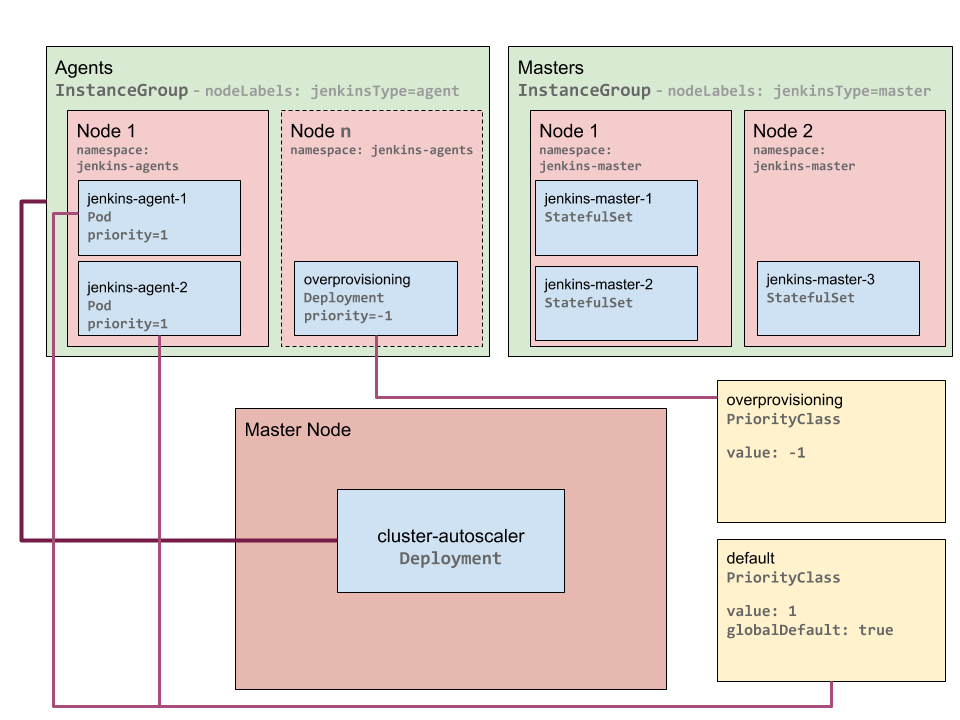
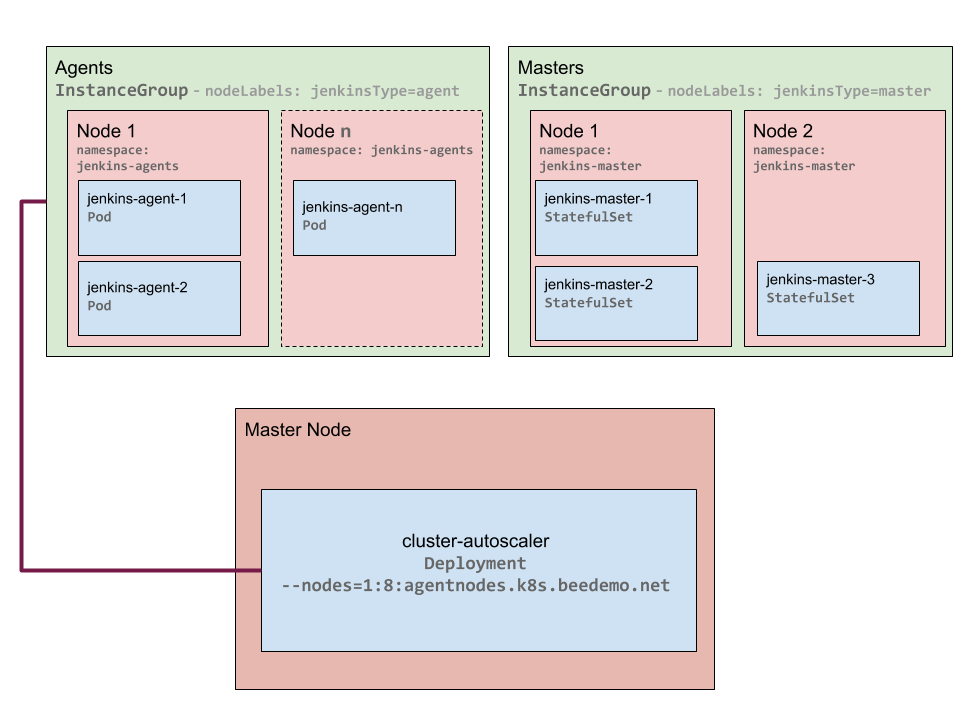
updates for autoscaling-jenkins-agents-with-kubernetes

diff --git a/content/posts/cicd-with-kubernetes/autoscaling-jenkins-agents-with-kubernetes.md b/content/posts/cicd-with-kubernetes/autoscaling-jenkins-agents-with-kubernetes.md
@@ -6,12 +6,18 @@ part: 2
 date: 2018-05-27T07:09:15-04:00
 draft: true
 ---
-In [Part 1]({{< ref "segregating-jenkins-agents-on-kubernetes.md" >}}) of the series [CI/CD on Kubernetes](/series/cicd-on-kubernetes/) we used the `PodNodeSelector` to segregate the Jenkins workload - agents from masters - and explored a few Kubernetes admission controllers. In Part 2 of this CI/CD on Kubernetes series we will utilize the segregated `jenkins-agents` `node pool` as part of an autoscaling solution for the Jenkins agent workload, without impacting the availability or performance of the Jenkins masters `node pool`. But before diving into the autoscaling solution for Jenkins agents we will take a look at `ResourceQuotas` and `LimitRanges` - two more admission controllers.
+In [Part 1]({{< ref "segregating-jenkins-agents-on-kubernetes.md" >}}) of the series [CI/CD on Kubernetes](/series/cicd-on-kubernetes/) we used the `PodNodeSelector` to segregate the Jenkins workloads - agents from masters - and explored a few Kubernetes admission controllers. In Part 2 of this CI/CD on Kubernetes series we will utilize the segregated `jenkins-agents` `node pool` as part of an autoscaling solution for the Jenkins agent workload, without impacting the availability or performance of the Jenkins masters `node pool` or any other segregated workload on the cluster. But before diving into the autoscaling solution for Jenkins agents we will take a look at `ResourceQuotas` and `LimitRanges` to reduce the risk of a few rogue Jenkins jobs effecting the stability and availability of agent capacity. Because even though autoscaling compute resources for Jenkins agents is a terrific solution for flexibile and dynamic CI/CD capacity, there will always be a limits to how much up-scaling is possible - whether it is limits on cost or actual physical limitations of AWS itself.
 
 > **NOTE:** The configuration examples used in this series are from a Kubernetes cluster deployed in AWS using [Kubernetes Operations or kops](https://github.com/kubernetes/kops) version [1.9](https://github.com/kubernetes/kops/blob/master/docs/releases/1.9-NOTES.md) with [Kubernetes RBAC](https://kubernetes.io/docs/reference/access-authn-authz/rbac/) enabled (which is the default authorization mode for kops 1.9). Therefore, certains steps and aspects of the configurations presented may be different for other Kuberenetes platforms.
 
 ## Resource Quotas and Autoscaling Don't Mix
-Efficient and effective management of compute resources is an important part of successful CI/CD and it is no different with a Kubernetes cluster. The Kubernetes [`ResourceQuota`](https://kubernetes.io/docs/concepts/policy/resource-quotas/) object allows you to limit cluster resource utilization by `namespace` - ensuring that each workload or team in an organization has what they need without negatively impacting others. `ResourceQuotas`, for example, allow you to specify the total compute resources, such as cpu and memory (among many other resources), that may be used by a `namespace` - think of them as over-utilization guardrails for your CI/CD resources. However, it is a static configuration. So if you were to increase the number of `nodes` in a cluster you would have to manually update the `ResourceQuota` to make additional resources available for any `namespace` with a `ResourceQuota` assigned. However, the topic of this post is how to dynamically up-scale and down-scale cluster `nodes` for Jenkins agents - but it not currently possible to dynamically modify `ResourceQuotas`. There doesn't seem much point in having dynamic autoscaling while having a manual process to modify `ResourceQuotas` in order to actually utilize the autoscaled resources - so  `ResourceQuotas` and autoscaling by `namespace` don't mix. But you still may want to provide some guardrails within a particular `namespace` so that one individual Jenkins job does not adversely effect other jobs relying on the same pool of Jenkins agents. There must be some reasonable limit for each individual Jenkins agent `pod`. Also, for a Kubernetes cluster configured to autoscale `nodes` we still want to ensure that no single `pod` is configured use more resources than are available on a single node as that `pod` will fail to launch. So we will define a `LimitRange` for the jenkins-agent `namespace` to assure realistic defaults and limits for each `container` in a `pod` and maximum cpu and memory for a `pod` overall. This will provide for more consistent and reasonable resource utilization and cluster autoscaling.
+#### Resource Quotas
+Efficient and effective management of compute resources is an important part of successful CI/CD and it is no different with CI/CD on a Kubernetes cluster. The Kubernetes [`ResourceQuota`](https://kubernetes.io/docs/concepts/policy/resource-quotas/) object allows you to limit cluster resource utilization by `namespace` - ensuring that each workload or team that has a dedicated `namespace` has adequate compute resources without denying resources to other workloads/teams. `ResourceQuotas`, for example, allow you to specify the total compute resources, such as cpu and memory (among many other resources), that may be used by a `namespace` - think of them as over-utilization guardrails for your CI/CD resources. However, it is a static configuration. So if you were to increase the number of `nodes` in a cluster you would have to manually update the `ResourceQuota` to make additional resources available for any `namespace` with a `ResourceQuota` assigned. However, the topic of this post is how to dynamically up-scale and down-scale cluster `nodes` for Jenkins agents - but it is not currently possible to dynamically modify `ResourceQuotas`. So, there doesn't seem much point in having cluster autoscaling while having a manual process to modify `ResourceQuotas` in order to actually utilize the autoscaled resources - so  `ResourceQuotas` and autoscaling by `namespace` don't mix. 
+
+#### Limit Ranges
+Even though `ResourceQuotas` don't make much sense with `node pool` autoscaling, you still will want to provide some guardrails within a particular `namespace` so that one individual Jenkins job does not adversely effect other jobs relying on the same pool of Jenkins agent capacity. First and foremost, we want to ensure that no single `pod` is configured to use more resources than are available on a single `node` as that `pod` will fail to launch - resulting in the Jenkins jobs requesting those agents waiting indefinitely. Additionally, for a Kubernetes cluster configured to autoscale `nodes` we still will want to have reasonable limits for each individual Jenkins agent `pod` as we will certainly have a limit for how many `nodes` can be up-scaled - and we wouldn't want some rogue Jenkins jobs using all of the compute resources of the Jenkins agent `node pool`.  So we will define a `LimitRange` for the jenkins-agent `namespace` to assure realistic defaults and limits for each `container` in a `pod` and maximum [cpu](https://kubernetes.io/docs/tasks/administer-cluster/manage-resources/cpu-default-namespace/) and [memory](https://kubernetes.io/docs/tasks/administer-cluster/manage-resources/memory-default-namespace/) limits for each `pod`. This will provide for more consistent and reasonable resource utilization and more predictable cluster autoscaling.
+
+> **NOTE:** Using `LimitRange` requires that the `LimitRanger` admission controller be enabled. The `LimitRanger` admission controller has been a [recommended admission controller](https://kubernetes.io/docs/reference/access-authn-authz/admission-controllers/#is-there-a-recommended-set-of-admission-controllers-to-use) since Kubernetes 1.0 and will most likely be enabled by default for most Kubernetes distributions. It is enabled by default for kops 1.9.
 
 {{% codecaption caption="jenkinsAgentLimitRange.yml" %}}
 ```yaml
@@ -39,26 +45,30 @@ spec:
 ```
 {{% /codecaption %}}
 
-> **NOTE:** Even though we won't be using `ResourceQuotas` for this example - it is interesting that `ResourceQuotas` and `LimitRanges` work hand-in-hand. If a `ResourceQuota` is sprecified for cpu and/or memory on a `namespace` then `pod` `containers` must specify limits or requests for cpu/memory or the `pod` may not be created. So it is recommended that a `LimitRange` is created for the same `namespace` so default values are automatically applied to any `containers` that don't specify cpu/memory limits or requests.
+<br/>
+
+> **NOTE:** Even though we won't be using `ResourceQuotas` for this example - it is interesting that `ResourceQuotas` and `LimitRanges` work hand-in-hand. If a `ResourceQuota` is specified for cpu and/or memory on a `namespace` then `pod` `containers` must specify limits or requests for cpu/memory or the `pod` may not be created. So it is recommended that a `LimitRange` is created for any `namespace` that has a `ResourceQuota` applied - so default values are automatically applied to any `containers` that don't specify cpu/memory limits or requests and will still be successfully scheduled.
 
 ## Why Autoscale
-The [Jenkins Kubernetes Plugin](https://github.com/jenkinsci/kubernetes-plugin) provides the capability to provision dynamic and ephemeral Jenkins agents as `Pods` managed by Kubernetes. And while very useful, that is not the same thing as autoscaling the actual physical resources or `nodes` these `Pods` are running. Without true autoscaling there will be a static amount of resources available for your Jenkins agents workload (and any other applications utilizing those same Kubernetes nodes); and when and if all of those resources are consumed - any additional Jenkins workload will be queued. Furthermore, if you have consistent (or random) spikes in your CI/CD workload then autoscaling your agent capacity could be a solution for shorter queues - especially in a cloud environment like AWS, Azure, GCP, etc.
+The [Jenkins Kubernetes Plugin](https://github.com/jenkinsci/kubernetes-plugin) provides the capability to provision dynamic and ephemeral Jenkins agents as `Pods` managed by Kubernetes. And while very useful, that is not the same thing as autoscaling the actual physical resources or `nodes` where these `Pods` are running. Without true autoscaling, there will be a static amount of resources available for your Jenkins agents workload (and any other applications utilizing those same Kubernetes nodes); and when and if all of those resources are consumed - any additional Jenkins workload will be queued. Furthermore, if you have consistent (or random) spikes in your CI/CD workload then autoscaling your agent capacity could be a solution for much shorter Jenkins queues - especially in a cloud environment like AWS, Azure, GCP, etc.
 
-True autoscaling will allow your CI/CD to move as fast as it needs to - limiting slow-downs related to lack of infrastructure. But of course you will still want to set maximum limits to avoid large costs due to a mis-configured jobs or other user error - even with a `LimitRange` for the autoscaled `namespace`. And remember, down-scaling is just as important as up-scaling - it is the down-scaling that will help manage costs by removing under utilized `nodes`, while the up-scaling accelerates your CI/CD. Autoscaling will help reduce costs and maximize availability for your Jenkins agent workload.
+True autoscaling will allow your CI/CD to move as fast as it needs to - greatly reducing slow-downs related to lack of infrastructure. But of course you will still want to set maximum limits to avoid large costs due to a mis-configured jobs or other user error - even with a `LimitRange` for the autoscaled `namespace`. And remember, down-scaling is just as important as up-scaling - it is the down-scaling that will help manage costs by removing under utilized `nodes`, while the up-scaling accelerates your CI/CD. Autoscaling will help reduce costs and maximize availability for your Jenkins agent workload.
 ## Kubernetes Autoscaler Project
-The [Kubernetes Autoscaler](https://github.com/kubernetes/autoscaler) project provides a [Cluster Autoscaler](https://github.com/kubernetes/autoscaler/tree/master/cluster-autoscaler) component with support for AWS, GCP and Azure. A GA version was released alongside the release of Kubernetes 1.8.  The Cluster Autoscaler runs as a Kubernetes `Deployment` on your cluster and monitors the resource utilization of `node pools` or in kops terms [`InstanceGroups`](https://github.com/kubernetes/kops/blob/master/docs/instance_groups.md) - mapping to AutoScalingGroups in AWS. The Cluster Autoscaler will up-scale and down-scales `nodes` in a `node pool`/`instancegroup` based on `pod` consumption. Configuring and enabling the Kubernetes Cluster Autoscaler is very simple and straightforward. 
+The [Kubernetes Autoscaler](https://github.com/kubernetes/autoscaler) project provides a [Cluster Autoscaler](https://github.com/kubernetes/autoscaler/tree/master/cluster-autoscaler) component with support for AWS, GCP and Azure. A GA version was released alongside the release of Kubernetes 1.8.  The Cluster Autoscaler runs as a Kubernetes `Deployment` on your cluster and monitors the resource utilization of `node pools` or in kops terms [`InstanceGroups`](https://github.com/kubernetes/kops/blob/master/docs/instance_groups.md) - which for AWS map to `AutoScalingGroups`. The Cluster Autoscaler will up-scale and down-scales `nodes` in a `node pool`/`instancegroup` based on `pod` consumption. Configuring and enabling the Kubernetes Cluster Autoscaler is very simple and straightforward. 
 
 > **NOTE:** There are two other prominent types of autoscaling for Kubernetes: 1) The [Horizontal Pod Autoscaler](https://kubernetes.io/docs/tasks/run-application/horizontal-pod-autoscale/) and 2) The [Vertical Pod Autoscaler](https://github.com/kubernetes/autoscaler/tree/master/vertical-pod-autoscaler). Put simply, the Horizontal Pod Autoscaler scales the number of `Pods` for a given application and is not a good fit for stateful, single `pod` applications like Jenkins masters or the ephemeral workload of Kubernetes based Jenkins agents. The Vertical Pod Autoscaler is of potential interest for both Jenkins masters and agents - as it will automatically adjust resource requirements for new and existing pods. One area of interest for the Vertical Pod Autoscaler is the capability to reduce the risk of containers running out of memory. This could be an excellent feature for Jenkins masters, allowing you to be more frugal with initial resource quotas with less risk. Definitely something worth taking a look at in a future post.
 
 ## Namespace Specific Autoscaling
-We want to run a number of different workloads on our Kubernetes cluster - for example, in addition to providing dynamic Jenkins agents, we would also like to run Jenkins masters on the cluster and even deploy production applications to the same cluster. Of course you could set up separate clusters for each of these workloads, but the Kubernetes `Namespace` capability enables us to have true multi-tenant workload in the same cluster. For some workloads autoscaling is quite useful, whereas for other types of workloads autoscaling may not make sense, and may even be detrimental. Specifically, cluster autoscaling is detrimental for Jenkins masters. The Cluster Autoscaler will down-scale in addition to up-scaling - and when it scales down it will move/reschedule existing `pods` to other `nodes` in the pool so that `node` can be removed. This sudden unexpected stoppages is not a behavior we want for the Jenkins masters' workloads. But cluster autoscaling makes a lot of sense for Jenkins agents. So we will use the Jenkins agent `namespace` tied to a Jenkins agent `node pool` created in [part one of this series]({{< ref "segregating-jenkins-agents-on-kubernetes.md#putting-it-all-together" >}}) to ensure that only `nodes` used by Jenkins agents - and not other workloads - are autoscaled.
+We want to run a number of different workloads on our Kubernetes cluster - for example, in addition to providing dynamic Jenkins agents, we would also like to run Jenkins masters on the cluster and even deploy production applications to the same cluster. Of course you could set up separate clusters for each of these workloads, but the Kubernetes `Namespace` capability provides manageable multi-tenant workloads, all within one Kubernetes cluster. For some workloads autoscaling is quite useful, whereas for other types of workloads autoscaling may not make sense, and may even be detrimental. Specifically, cluster autoscaling is not a good fit for Jenkins masters. The Cluster Autoscaler will down-scale in addition to up-scaling - and when it scales down it will move/reschedule existing `pods` to other `nodes` in the pool so that `node` can be removed. This sudden unexpected stoppages is not a behavior we want for the Jenkins masters' workloads. But cluster autoscaling makes a lot of sense for Jenkins agents. So we will use the Jenkins agent `namespace` tied to a Jenkins agent `node pool` created in [part one of this series]({{< ref "segregating-jenkins-agents-on-kubernetes.md#putting-it-all-together" >}}) to ensure that only `nodes` used by Jenkins agents - and not other workloads - are autoscaled.
 
 {{< figure src="k8s-cluster-autoscaling.png" title="Kubernetes Autoscaling Architecture Overview Diagram" >}}
 ### PodNodeSelector
 The [PodNodeSelector](https://kubernetes.io/docs/admin/admission-controllers/#podnodeselector) admission controller that we [setup in part one of this series]({{< ref "segregating-jenkins-agents-on-kubernetes.md#configure-kops-admission-controllers" >}}) allows for targeted cluster autoscaling. To revisit, the `PodNodeSelector` allows you to place an annotation on a Kubernetes `namespace` that will automatically be assigned as a [`nodeSelctor`](https://kubernetes.io/docs/concepts/configuration/assign-pod-node/#nodeselector) label/value on all `pods` that are created in that `namespace`. We will configure the Cluster Autoscaler to specifically target the AWS AutoScalingGroup/`node pool`/`InstanceGroup` associated to the Jenkins agent `namespace` [created in part one of this series]({{< ref "segregating-jenkins-agents-on-kubernetes.md##jenkins-agent-instance-group" >}}) using the `PodNodeSelector`, so that only `nodes` used for Jenkins agent `pods` will be autoscaled. 
 
+
+
 ### Cluster Autoscaler Deployment
-The following is an exerpt from the [cluster autoscaler example for running on a master node](https://github.com/kubernetes/autoscaler/blob/5ea4ddac977304302faa188f32b5965267374fc3/cluster-autoscaler/cloudprovider/aws/examples/cluster-autoscaler-run-on-master.yaml) with the only modification being for the `nodes` argument for the `cluster-autoscaler` `app`:
+The following is an excerpt from the [cluster autoscaler example for running on a master node](https://github.com/kubernetes/autoscaler/blob/5ea4ddac977304302faa188f32b5965267374fc3/cluster-autoscaler/cloudprovider/aws/examples/cluster-autoscaler-run-on-master.yaml) with the only modification being for the `nodes` argument for the `cluster-autoscaler` `app`:
 {{% codecaption caption="clusterAutoscalerDeployment.yml" %}}
 ```yaml
 apiVersion: extensions/v1beta1
@@ -69,7 +79,19 @@ metadata:
   labels:
     k8s-addon: cluster-autoscaler.addons.k8s.io
     app: cluster-autoscaler
-...
+  spec:
+  tolerations:
+  - effect: NoSchedule
+    key: node-role.kubernetes.io/master
+  nodeSelector:
+    kubernetes.io/role: master
+  serviceAccountName: cluster-autoscaler
+  containers:
+    - name: cluster-autoscaler
+      image: k8s.gcr.io/cluster-autoscaler:v1.1.0
+.
+.
+.
           command:
             - ./cluster-autoscaler
             - --v=4
@@ -77,7 +99,13 @@ metadata:
             - --cloud-provider=aws
             - --skip-nodes-with-local-storage=false
             - --nodes=1:10:agentnodes.k8s.kurtmadel.com
-...
+.
+.
+.
 ```
 {{% /codecaption %}}
-The `cluster-autoscaler` deployment is in the `kube-system` `namespace` and is deployed to a master node.
+The `cluster-autoscaler` `Deployment` is in the `kube-system` `namespace` and is deployed to a master `node`. You don't have to deploy it to a `master` `node`. The important parameters for the `cluster-autoscaler` `command` are the `cloud-provider` - `aws` for this example - and `nodes` - which in addition to specifying the minimum scale-down and maximum scale-up `node` values, also specifies the value of the name key for the AWS Auto Scaling Group to autoscale.
+
+>**NOTE:** The Cluster Autoscaler also supports an [auto-discovery mode](https://github.com/kubernetes/autoscaler/blob/master/cluster-autoscaler/cloudprovider/aws/README.md#auto-discovery-setup) that allows you to tag a `node pool` with two keys - `k8s.io/cluster-autoscaler/enabled=yes` and `kubernetes.io/cluster/<YOUR CLUSTER NAME>=true` - and the Cluster Autoscaler will automaticlaly discover and scale those `node pools`. However, with the Jenkins agent use case presented here we are using kops instance groups (`node pools`) for a specific workload that we want autoscaled while we have other `node pools` where we explicitly don't want autoscaling.
+
+One thing to keep in mind with the autoscaling for the Jenkins agent workload, specifically with AWS, is that spinning up a new node/ec2 instance takes several minutes at which time jobs will be waiting in the queue. In the next post of the series [CI/CD on Kubernetes](/series/cicd-on-kubernetes/) we will explore just-in-time  autoscaling for the Jenkins agent workload that I like to refer to as ***preemptive*** autoscaling.
